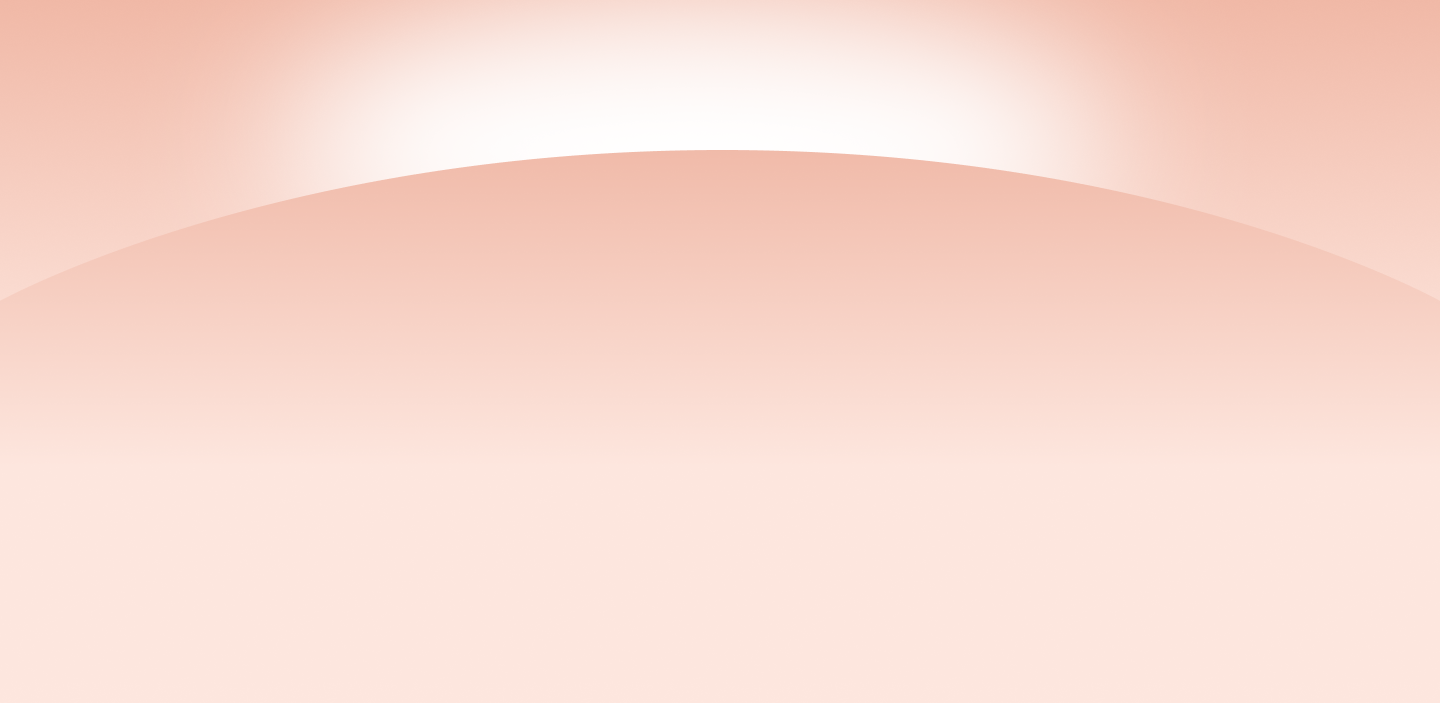
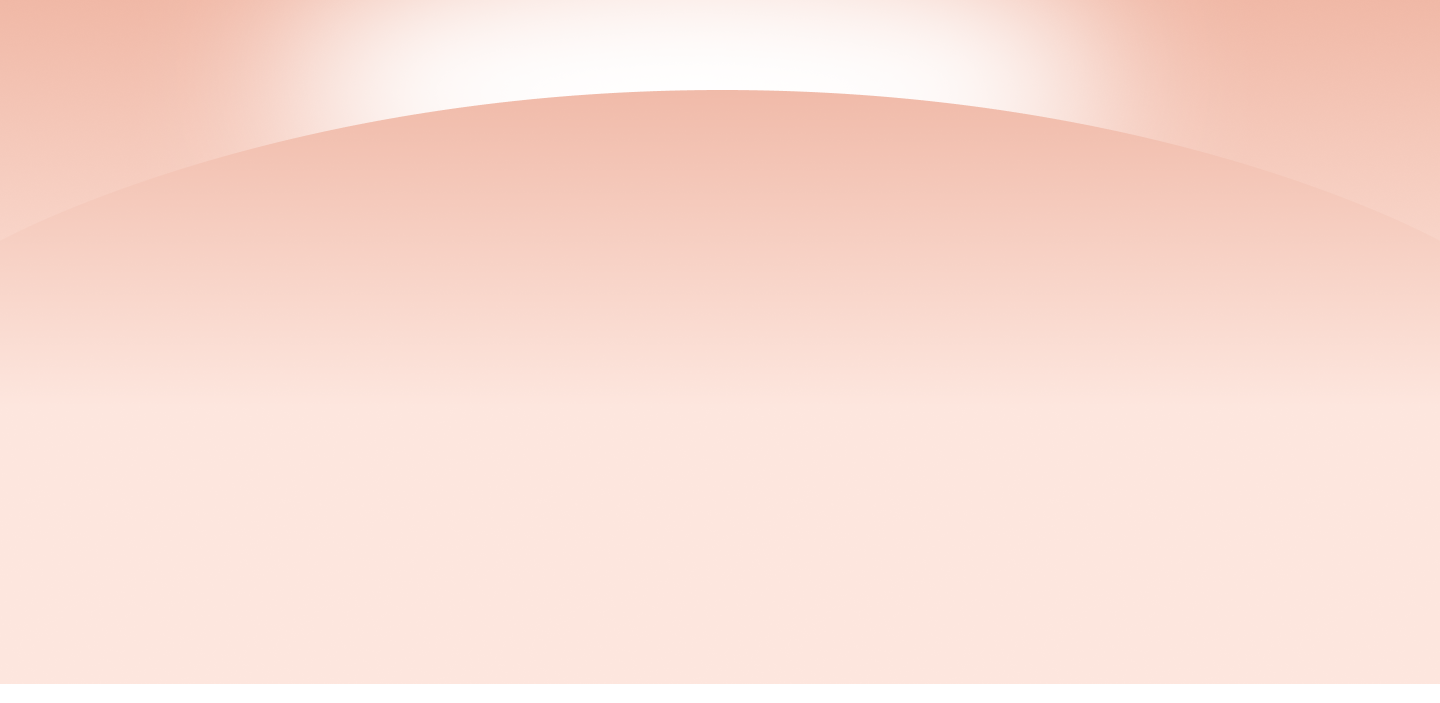
wip

Changed region(s): [[0.1562, 0.1195, 0.8125, 0.2987], [0.0, 0.9559, 1.0, 1.0], [0.25, 0.0, 0.6875, 0.0597]]

diff --git a/content/home.jsx b/content/home.jsx
@@ -8,12 +8,11 @@ export const HomeData = () => {
     <>
       <div className="home-content relative z-10">
         <h1 className="sr-only">
-          <span>NOW AVAILABLE</span>
           EXPECTATIONS ELEVATED
         </h1>
 
         <article>
-          <p className="font-bold text-lg leading-tight">In a 12-month study, QIVIGY<sup>®</sup> achieved quality patient outcomes<sup>1,2</sup>: </p>
+          <p className="font-bold text-lg leading-tight">In a 12-month study, QIVIGY achieved quality patient outcomes<sup>1,2</sup>: </p>
           <div className="home-content__callout">
             <div className="home-content__callout__number">0</div>
             <p>
@@ -39,7 +38,7 @@ export const HomeData = () => {
             <p>
               <span className="item__number">3<span>%</span></span>{" "}
               <span className="item__focus">
-                <strong>of the year on antibiotics<sup className="font-normal! text-sm!">1*</sup></strong>
+                <strong>OF THE YEAR ON ANTIBIOTICS<sup className="font-normal! text-sm!">1*</sup></strong>
               </span>
             </p>
           </article>
@@ -54,16 +53,16 @@ export const HomeData = () => {
         </section>
 
         <h2 className="mt-0 mb-4">EXPECT MORE WITH QIVIGY.</h2>
-        <Button href="/starting-qivigy" variant="home" className="mx-2! md:mx-0">
+        <Button href="/starting-qivigy" variant="home" className="mx-2! md:mx-0 max-w-[655px] w-full">
           <span className="text-2xl font-bold leading-none">Start QIVIGY</span>
           <span className="text-base md:text-lg font-bold leading-none border-l-2 border-white pl-4 ml-2">See dosing and ordering information</span>
           <RightAngleIcon className="w-4 h-4" />
         </Button>
 
-        <div className="text-xs text-left max-w-xl mx-auto mt-8 space-y-2 px-4">
-          <p>*The median (min, max) duration of antibiotic treatment of any kind of infection was 10 days (1, 334). A total of 36 (76.6%) patients used at least 1 course of concomitant antibiotic therapy for treatment of infections. Eleven patients (23.4%) did not require antibiotic treatment.<sup>2</sup></p>
+        <div className="reference-text text-left mx-auto mt-8 space-y-2 px-4 md:px-0 max-w-[655px]">
+          <p><span className="float-left -ml-2!">*</span>The median (min, max) duration of antibiotic treatment of any kind of infection was 10 days (1, 334). A total of 36 (76.6%) patients used at least 1 course of concomitant antibiotic therapy for treatment of infections. Eleven patients (23.4%) did not require antibiotic treatment.<sup>2</sup></p>
 
-          <p>†A study-specific patient satisfaction questionnaire was an exploratory endpoint in the trial and collected from all 47 treated patients at Week 24. Questionnaire results also showed 68% of patients were satisfied with their previous IVIG therapy.<sup>2</sup></p>
+          <p><span className="float-left -ml-2!">†</span>A study-specific patient satisfaction questionnaire was an exploratory endpoint in the trial and collected from all 47 treated patients at Week 24. Questionnaire results also showed 68% of patients were satisfied with their previous IVIG therapy.<sup>2</sup></p>
 
           <p><strong>References: 1.</strong> QIVIGY [prescribing information]. Kedrion Biopharma Inc.; 2025. <strong>2.</strong> Data on file. REF-01262. Kedrion Biopharma Inc.; 2024.</p>
         </div>

diff --git a/app/page.tsx b/app/page.tsx
@@ -11,13 +11,13 @@ export default function Home() {
     <>
       <StudyDesignContent />
 
-      <div className="bg-deep-orange-light flex-1 text-center py-8 pt-[34.821428571%] md:pt-56 xl:pt-56 relative">
+      <div className="bg-deep-orange-light flex-1 text-center py-8 pt-[125px] md:pt-[155px] xl:pt-[155px] relative">
         <p className={cn(
-          "absolute top-4 md:top-8 left-0 w-full text-center z-50 text-deep-orange font-bold text-xl md:text-3xl tracking-widest"
+          "absolute top-3 md:top-4 left-0 w-full text-center z-50 text-deep-orange font-bold text-xl md:text-2xl tracking-widest"
         )}>NOW AVAILABLE</p>
-        <Image src={BGImage} alt="" fill className="object-cover hidden md:block" />
+        <Image src={BGImage} alt="" fill className="object-cover hidden md:block relative" />
         <Image src={BGImageMobile} alt="" className="block absolute top-0 left-0 w-full md:hidden" />
-        <Headline className="absolute top-[7.5%] sm:top-[10%] md:top-[13.5%] left-0 right-0 w-full max-w-[850px] mx-auto z-40 text-navy px-4" />
+        <Headline className="absolute top-[5%] sm:top-[6%] md:top-[7.5%] left-0 right-0 w-full max-w-[650px] mx-auto z-40 text-navy px-4" />
         <HomeData />
       </div>
     </>

diff --git a/app/starting-qivigy/page.tsx b/app/starting-qivigy/page.tsx
@@ -5,7 +5,7 @@ import CalculatorSection from "@/components/calculator/calculator-section";
 
 export default function Page() {
   return (
-    <PageLayout pageTitle={<>Starting QIVIGY<sup>®</sup></>}>
+    <PageLayout pageTitle={<>Starting QIVIGY<sup className="font-normal! text-2xl -top-4.5!">®</sup></>}>
       <div className="page-width starting-qivigy pb-14">
         <StartingQivigyDosingProductInformationData />
       </div>
@@ -31,7 +31,7 @@ export default function Page() {
         <div className="page-width starting-qivigy">
           <StartingQivigyCustomerService />
           <SignupForm />
-          <p className="text-xs mt-8"><strong>Reference: 1.</strong> QIVIGY [prescribing information]. Kedrion Biopharma Inc.; 2025. </p>
+          <p className="reference-text mt-8"><strong>Reference: 1.</strong> QIVIGY [prescribing information]. Kedrion Biopharma Inc.; 2025. </p>
           <div className="bg-linear-to-b from-deep-orange-light to-white absolute top-0 left-0 h-[300px] w-full -z-10"></div>
         </div>
       </div>

diff --git a/content/study-design.tsx b/content/study-design.tsx
@@ -1,7 +1,7 @@
 export const StudyDesignContent = () => (
   <div className="study-design">
     <div className="max-width">
-      <p><strong>PHASE 3 STUDY DESIGN:</strong> The efficacy of QIVIGY was evaluated in an open-label, prospective clinical study in adult patients with primary humoral immunodeficiency. A total of 47 patients received intravenous infusions of QIVIGY at a dose of 266 mg/kg to 826 mg/kg on a 4-week (n=39) or a 3-week (n=8) infusion cycle for 12 months. There were no comparative head-to-head trials with QIVIGY.<sup>1,2</sup></p>
+      <p><strong>PHASE 3 STUDY DESIGN:</strong> The efficacy of QIVIGY<sup>®</sup> was evaluated in an open-label, prospective clinical study in adult patients with primary humoral immunodeficiency. A total of 47 patients received intravenous infusions of QIVIGY at a dose of 266 mg/kg to 826 mg/kg on a 4-week (n=39) or a 3-week (n=8) infusion cycle for 12 months. There are no comparative head-to-head trials with QIVIGY.<sup>1,2</sup></p>
     </div>
   </div>
 );

diff --git a/assets/stylesheets/globals.css b/assets/stylesheets/globals.css
@@ -73,6 +73,8 @@
   --color-foreground: var(--foreground);
   --font-sans: "Chesna Grotesk", ui-sans-serif, system-ui, sans-serif;
   --font-open-sans: var(--font-open-sans), ui-sans-serif, system-ui, sans-serif;
+  --font-acumin:
+    "acumin-pro-semi-condensed", ui-sans-serif, system-ui, sans-serif;
   --font-mono: ui-monospace, monospace;
 
   /* QIVIGY Brand Colors */
@@ -136,6 +138,9 @@
   body {
     @apply bg-background text-foreground;
   }
+  p {
+    @apply tracking-[-0.02em];
+  }
 }
 
 @layer components {
@@ -184,6 +189,10 @@
 
   .input-inset-shadow {
     box-shadow: 0 4px 4px 0 rgba(0, 0, 0, 0.25) inset;
+  }
+
+  .reference-text {
+    @apply text-[13px] leading-[14px] font-acumin;
   }
 }
 

diff --git a/components/calculator/calculator-infusion-rates.tsx b/components/calculator/calculator-infusion-rates.tsx
@@ -32,7 +32,7 @@ export const CalculatorInfusionRatesData = () => {
 
       <p><Button onClick={handleClick} className="whitespace-normal! leading-none!">Calculate Infusion Rates for a Patient</Button></p>
 
-      <p className="text-sm"><strong>References: 1.</strong> Data on file, Kedrion Biopharma Inc. <strong>2.</strong> QIVIGY [prescribing information], Kedrion Biopharma Inc.; 2025.</p>
+      <p className="reference-text"><strong>References: 1.</strong> Data on file, Kedrion Biopharma Inc. <strong>2.</strong> QIVIGY [prescribing information], Kedrion Biopharma Inc.; 2025.</p>
     </div>
   )
 }

diff --git a/assets/stylesheets/home-content.css b/assets/stylesheets/home-content.css
@@ -13,7 +13,7 @@
 
 .home-content__callout {
   @apply flex flex-row items-center justify-center gap-4 mx-2 lg:mx-0;
-  @apply bg-white/90 border-3 border-navy p-4 rounded-[10px] mb-4 mt-2;
+  @apply bg-white/90 border-3 border-navy p-4 rounded-[10px] mb-2 mt-2;
 }
 
 .home-content__callout p {
@@ -51,6 +51,10 @@
 
 .home-content .item__number span {
   @apply text-4xl;
+}
+
+.home-content .item__focus {
+  @apply tracking-[-0.02em] leading-none;
 }
 
 .home-content .item__focus strong {

diff --git a/components/nav/primary-dropdown.tsx b/components/nav/primary-dropdown.tsx
@@ -27,7 +27,7 @@ export default function PrimaryDropdown() {
               <ul className={cn(
                 "hidden group-hover:flex",
                 "flex-col gap-3 p-3",
-                "absolute top-full left-[-17px] right-[-17px] mt-[16px]",
+                "absolute top-full left-[-17px] right-[-17px] mt-[12px]",
                 "bg-deep-orange-light text-foreground",
                 "border border-deep-orange",
                 "rounded-b-xl",

diff --git a/components/header/header-logo.tsx b/components/header/header-logo.tsx
@@ -6,7 +6,7 @@ export default function HeaderLogo() {
   return (
     <h1 className="text-4xl font-bold mb-4 mt-3 md:mt-0">
       <Link href="/">
-        <Image src={qivigyLogo} alt="QIVIGY Logo" width={233} height={100} className="w-[150px] md:w-[233px]" />
+        <Image src={qivigyLogo} alt="QIVIGY Logo" width={200} height={100} className="w-[150px] md:w-[200px]" />
         <span className="sr-only">QIVIGY</span>
       </Link>
     </h1>

diff --git a/components/header/header-utility.tsx b/components/header/header-utility.tsx
@@ -15,7 +15,8 @@ const headerUtilityLinks = headerUtilityLinksData.map((link) => headerUtilityLin
 export default function HeaderUtility() {
   return (
     <div className={cn(
-      "bg-navy text-white py-2.5 w-full",
+      "bg-navy text-white h-[30px] w-full",
+      "flex items-center justify-center",
       "font-open-sans text-[9px] md:text-xs",
       "header-shadow"
     )}>

diff --git a/app/layout.tsx b/app/layout.tsx
@@ -24,6 +24,9 @@ export default function RootLayout({
 }>) {
   return (
     <html lang="en" className={`${openSans.variable} scroll-smooth`}>
+      <head>
+        <link rel="stylesheet" href="https://use.typekit.net/pfy6pop.css" />
+      </head>
       <body className="antialiased font-sans min-h-screen flex flex-col relative" id="top">
         <Header />
         {children}

diff --git a/components/header/header-desktop.tsx b/components/header/header-desktop.tsx
@@ -11,7 +11,7 @@ export default function HeaderDesktop() {
     >
       <HeaderUtility />
 
-      <div className="max-width pt-6 pb-1 flex flex-row items-stretch justify-between">
+      <div className="max-width pt-3 pb-0 flex flex-row items-stretch justify-between">
         <HeaderLogo />
 
         <div className="flex flex-col justify-between items-end self-stretch">
